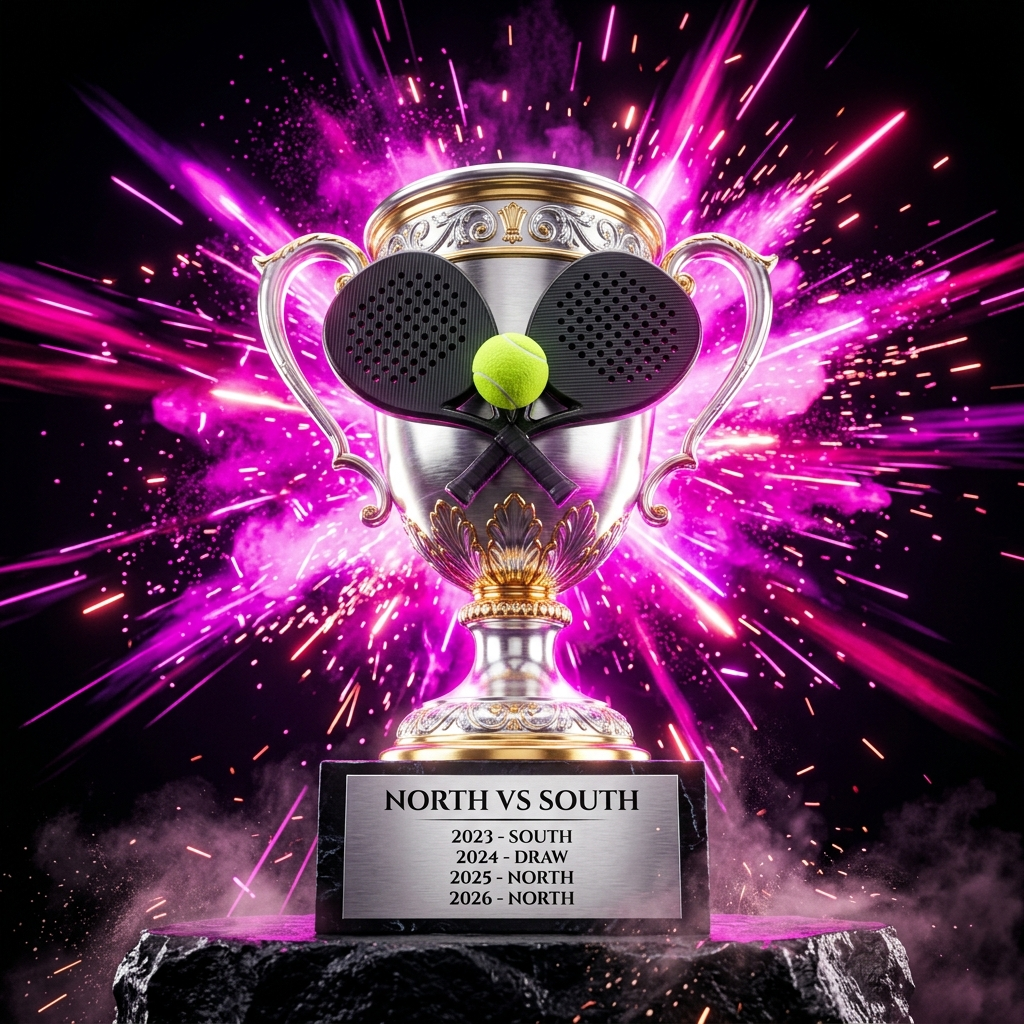
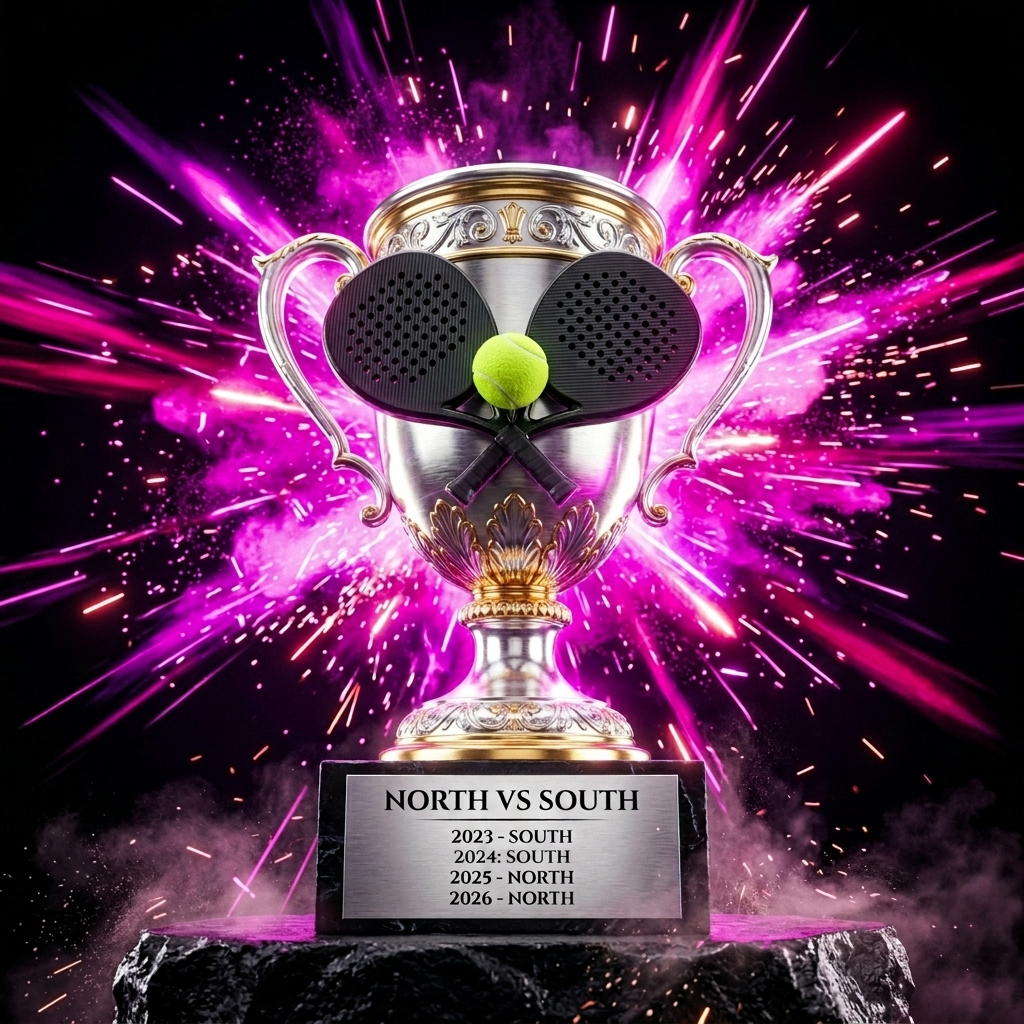
fix: update 2024 trophy winner and correct border color styling for 2025 and 2026 engravings

diff --git a/src/pages/NorthVsSouth.jsx b/src/pages/NorthVsSouth.jsx
@@ -1052,9 +1052,9 @@ const ResultsSection = () => {
                         <div className="grid grid-cols-2 gap-2 w-full">
                           {[
                             { year: '2023', winner: 'South', color: GOLD, bg: `${GOLD}08`, border: `${GOLD}15` },
-                            { year: '2024', winner: 'Draw', color: '#4B5563', bg: '#F3F4F6', border: '#E5E7EB' },
-                            { year: '2025', winner: 'North', color: MAGENTA, bg: `${MAGENTA}08`, border: `${MAGENTA}15` },
-                            { year: '2026', winner: 'North', color: MAGENTA, bg: `${MAGENTA}08`, border: `${MAGENTA}15` },
+                            { year: '2024', winner: 'South', color: GOLD, bg: `${GOLD}08`, border: `${GOLD}15` },
+                            { year: '2025', winner: 'North', color: MAGENTA, bg: `${MAGENTA}08`, border: `${GOLD}15` },
+                            { year: '2026', winner: 'North', color: MAGENTA, bg: `${MAGENTA}08`, border: `${GOLD}15` },
                           ].map((engraving) => (
                             <div
                               key={engraving.year}